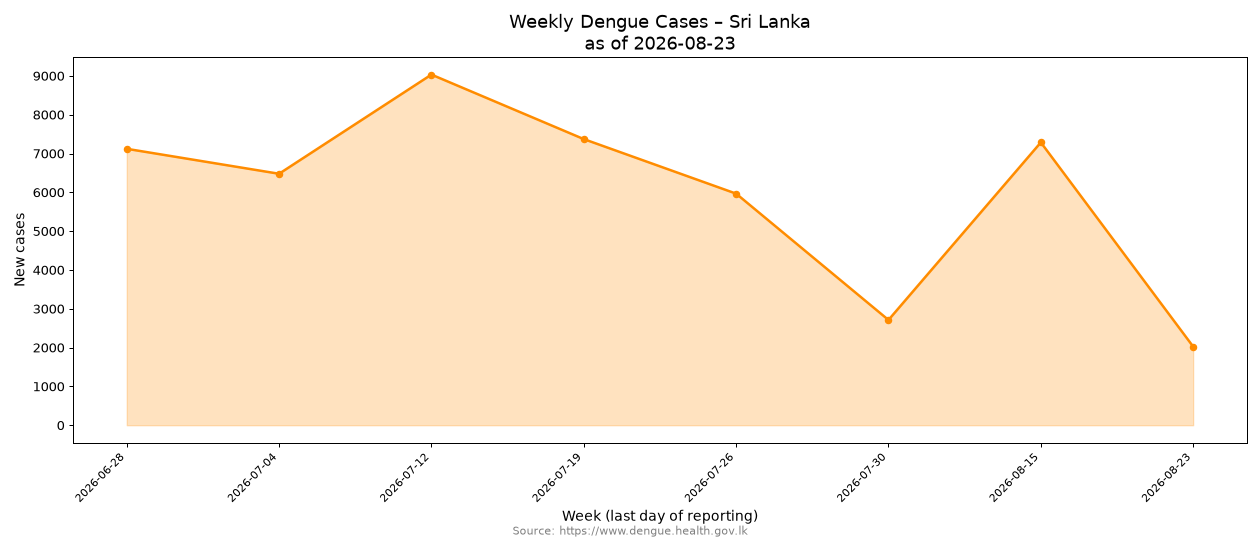
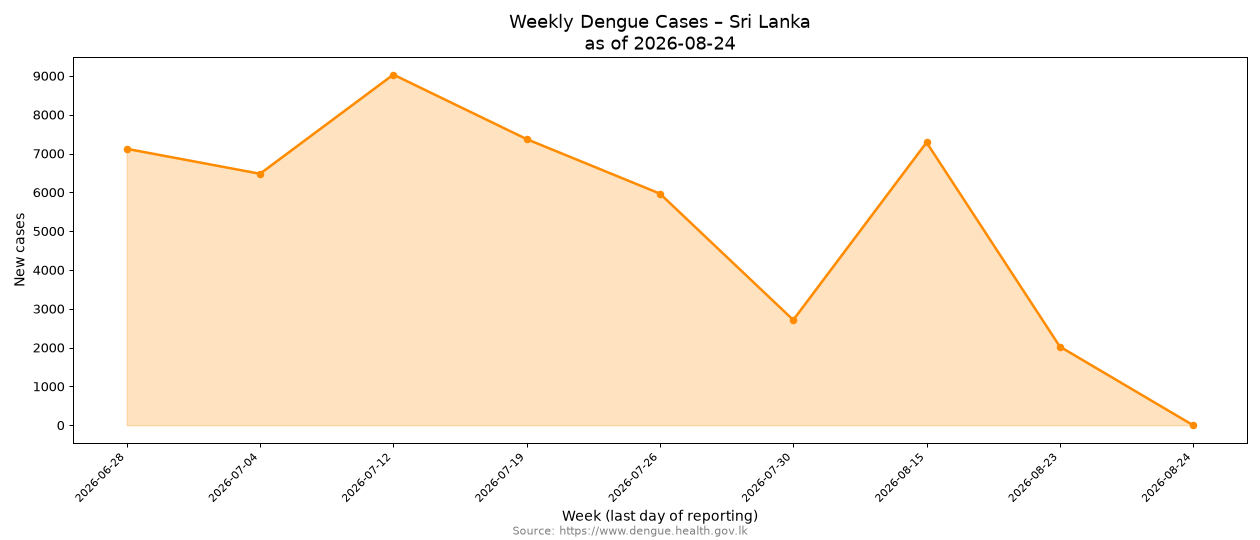
🤖 [pipeline.yml] 2026-08-25-0849

diff --git a/README.md b/README.md
@@ -191,6 +191,7 @@ As of 2026-08-16
 
 ### [National Dengue Control Unit - Daily Update](data/NDCUDaily)
 
+- [2026-08-24](data/NDCUDaily/2026/2026-08/2026-08-24)
 - [2026-08-23](data/NDCUDaily/2026/2026-08/2026-08-23)
 - [2026-08-21](data/NDCUDaily/2026/2026-08/2026-08-21)
 - [2026-08-15](data/NDCUDaily/2026/2026-08/2026-08-15)
